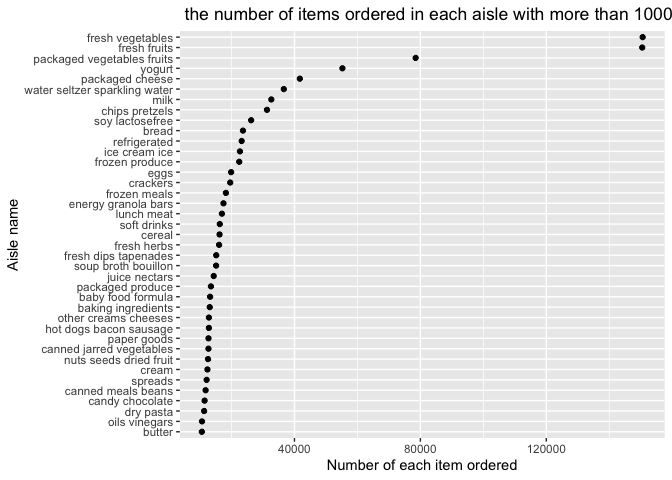
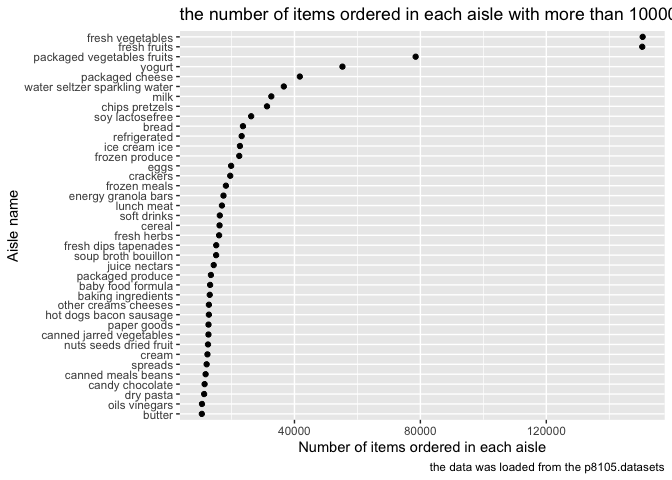
change ggplot

Changed region(s): [[0.0312, 0.0938, 1.0, 1.0], [0.25, 0.0, 1.0, 0.0625], [0.0, 0.4062, 0.0312, 0.5625]]

diff --git a/p8105_hw3_WZ2591.md b/p8105_hw3_WZ2591.md
@@ -80,15 +80,15 @@ names(sort(table(pull(instacart, product_name)),decreasing=TRUE))[1]
 
     ## [1] "Banana"
 
-### This is the data of the first row. It tells us that a users placed a order of Bulgarian Yogurt from yogurt aisle, which is 120 aisle from the department of dairy eggs. The order was placed in 10 am Thursday, and it is 9 days since prior order.
+### This is the data of the second row. It tells us that a users placed a order of Organic 4% Milk Fat Whole Milk Cottage Cheese from other creams cheeses aisle, which is 108 aisle from the department of dairy eggs. The order was placed in 10 am Thursday, and it is 9 days since prior order.
 
 ``` r
-instacart[1,] %>% knitr::kable()
+instacart[2,] %>% knitr::kable()
 ```
 
-| order\_id | product\_id | add\_to\_cart\_order | reordered | user\_id | eval\_set | order\_number | order\_dow | order\_hour\_of\_day | days\_since\_prior\_order | product\_name    | aisle\_id | department\_id | aisle  | department |
-|----------:|------------:|---------------------:|----------:|---------:|:----------|--------------:|-----------:|---------------------:|--------------------------:|:-----------------|----------:|---------------:|:-------|:-----------|
-|         1 |       49302 |                    1 |         1 |   112108 | train     |             4 |          4 |                   10 |                         9 | Bulgarian Yogurt |       120 |             16 | yogurt | dairy eggs |
+| order\_id | product\_id | add\_to\_cart\_order | reordered | user\_id | eval\_set | order\_number | order\_dow | order\_hour\_of\_day | days\_since\_prior\_order | product\_name                                 | aisle\_id | department\_id | aisle                | department |
+|----------:|------------:|---------------------:|----------:|---------:|:----------|--------------:|-----------:|---------------------:|--------------------------:|:----------------------------------------------|----------:|---------------:|:---------------------|:-----------|
+|         1 |       11109 |                    2 |         1 |   112108 | train     |             4 |          4 |                   10 |                         9 | Organic 4% Milk Fat Whole Milk Cottage Cheese |       108 |             16 | other creams cheeses | dairy eggs |
 
 ## Answer the following (commenting on the results of each):
 
@@ -110,11 +110,14 @@ aisle =
   count(aisle, name = 'number_of_items') %>%
   filter(number_of_items > 10000) %>% 
   ggplot(aes(reorder(aisle, number_of_items), x = number_of_items)) + 
-    geom_point() +
-    xlab('Number of each item ordered') +
-    ylab('Aisle name') +
-    labs(title = ' the number of items ordered in each aisle with more than 10000 items ordered')
-  
+  geom_point() + 
+  labs(
+    title = "the number of items ordered in each aisle with more than 10000 items ordered",
+    x = "Number of items ordered in each aisle",
+    y = "Aisle name",
+    caption = "the data was loaded from the p8105.datasets"
+  )
+
 aisle
 ```
 
@@ -125,9 +128,8 @@ aisle
 ``` r
 Three_pop_items = 
   instacart %>%
-  group_by(aisle) %>% 
-  filter(aisle %in% c('baking ingredients', 'dog food care', 'packaged vegetables fruits')
-  ) %>%
+  group_by(aisle) %>%
+  filter(aisle == "baking ingredients" | aisle == "dog food care" | aisle == "packaged vegetables fruits") %>% 
   count(product_name, name = 'number_of_ordered_time') %>%
   top_n(n = 3, wt = number_of_ordered_time) %>% 
   arrange(desc(number_of_ordered_time)) %>%
@@ -137,7 +139,7 @@ Three_pop_items =
     'number of ordered time' = number_of_ordered_time
     ) %>% 
   knitr::kable()
-  
+
 Three_pop_items
 ```
 
